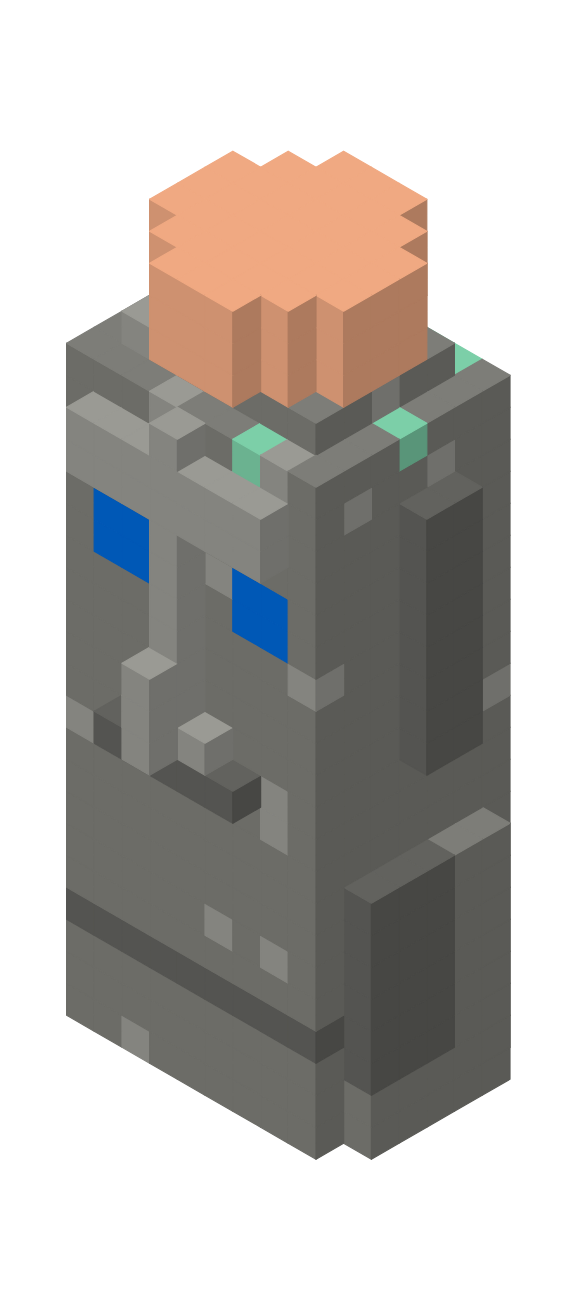
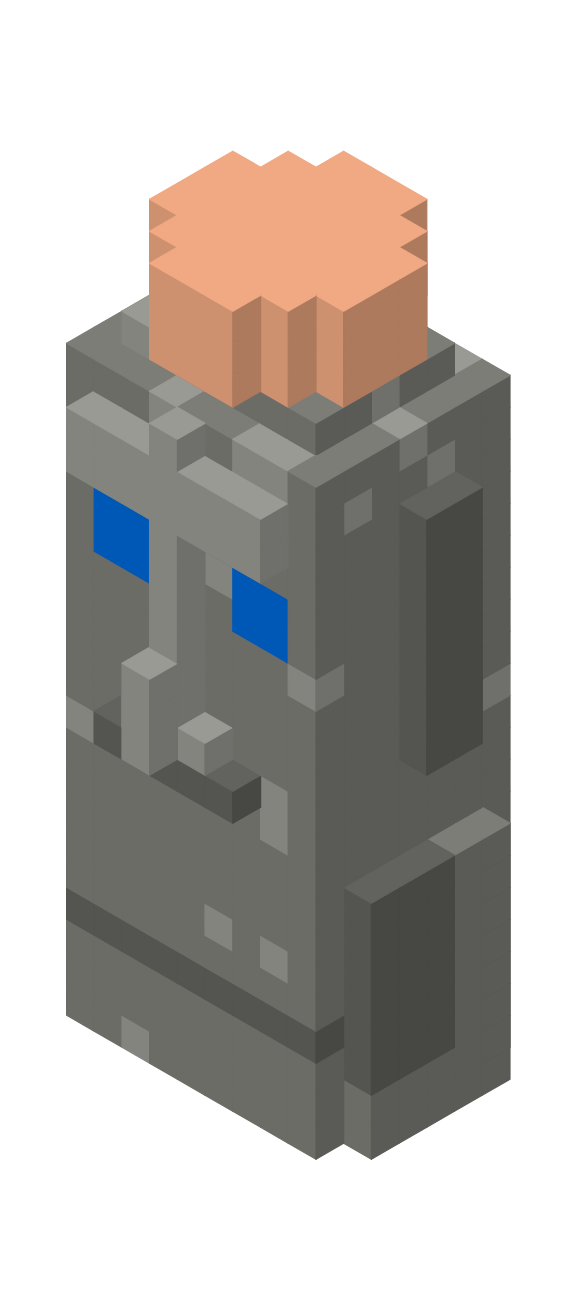
style: drop green from the palette, bands move to blue
The pastel About band, the dark contact band, --px-5, the moai moss
and the OG pixels used mint green, which is not part of the brand
palette. They now use pale blue, navy and lavender; all text pairs
still pass AA.

Claude-Session: https://claude.ai/code/session_014t4Wg7xppYvDZKWdUJ4WtA

Changed region(s): [[0.6562, 0.3053, 0.75, 0.3664], [0.4062, 0.3053, 0.5, 0.3664], [0.7812, 0.2443, 0.8438, 0.3053]]

diff --git a/src/styles/_tokens.scss b/src/styles/_tokens.scss
@@ -17,7 +17,7 @@
   --px-2: #7fb2ec;
   --px-3: #b9d5f5;
   --px-4: #c9b8f5;
-  --px-5: #a8e0c8;
+  --px-5: #dccff8;
   --px-6: #ffc9a8;
   --stone: #a3a39d;
   --stone-dark: #85857f;
@@ -28,9 +28,9 @@
   /* text on the pastel stack orbs, which stay light in both themes */
   --orb-ink: #1d1d1c;
   /* section bands (.band in _base.scss): pastel for About, ink for the contact finale; AA-checked */
-  --band-pastel-bg: #a8e0c8;
+  --band-pastel-bg: #b9d5f5;
   --band-pastel-fg: #1d1d1c;
-  --band-pastel-muted: #30473d;
+  --band-pastel-muted: #2f4560;
   --band-pastel-link: #0b4f96;
   --band-ink-bg: #1d1d1c;
   --band-ink-fg: #f2f2f2;
@@ -53,7 +53,7 @@
   --px-2: #2f86ea;
   --px-3: #6aa9f2;
   --px-4: #9d8cf0;
-  --px-5: #7ccfa8;
+  --px-5: #c2b4f5;
   --px-6: #f0a982;
   --stone: #7d7d78;
   --stone-dark: #62625e;
@@ -61,13 +61,13 @@
   --intro-bg: #e0e0e0;
   --intro-fg: #121212;
   --orb-ink: #121212;
-  --band-pastel-bg: #15302a;
-  --band-pastel-fg: #e8f4ee;
-  --band-pastel-muted: #a7c8ba;
+  --band-pastel-bg: #14243b;
+  --band-pastel-fg: #e8f0fa;
+  --band-pastel-muted: #a9bdd6;
   --band-pastel-link: #9ccaff;
-  --band-ink-bg: #0c2a1f;
-  --band-ink-fg: #eef7f2;
-  --band-ink-muted: #a7c8ba;
+  --band-ink-bg: #0b1f3d;
+  --band-ink-fg: #eef4fc;
+  --band-ink-muted: #a9bdd6;
   --band-ink-link: #9ccaff;
 }
 

diff --git a/e2e/motion.spec.ts b/e2e/motion.spec.ts
@@ -184,7 +184,7 @@ test.describe('bands and finale', () => {
   test('about sits on a pastel band and contact on a dark one', async ({ page }) => {
     await page.goto('/en/');
     const bandColour = (id: string) => page.locator(`#${id}`).evaluate((el) => getComputedStyle(el, '::before').backgroundColor);
-    expect(await bandColour('about')).toBe('rgb(168, 224, 200)');
+    expect(await bandColour('about')).toBe('rgb(185, 213, 245)');
     expect(await bandColour('contact')).toBe('rgb(29, 29, 28)');
   });
 

diff --git a/src/app/motion/effects/intro.ts b/src/app/motion/effects/intro.ts
@@ -2,7 +2,7 @@ import { endIntro } from '../intro-state';
 import type { Effect } from '../motion-host';
 
 // the pixel palette of src/styles/_tokens.scss
-const PIXELS = ['#7fb2ec', '#b9d5f5', '#c9b8f5', '#a8e0c8', '#ffc9a8'];
+const PIXELS = ['#7fb2ec', '#b9d5f5', '#c9b8f5', '#dccff8', '#ffc9a8'];
 // the CSS fallback in site-intro.ts lifts the panel at 3s; past that, GSAP must not replay it
 const FALLBACK_MS = 2600;
 

diff --git a/src/app/voxel/moai-scene.ts b/src/app/voxel/moai-scene.ts
@@ -37,7 +37,7 @@ const CSS_COLORS: Readonly<Record<VoxelColor, string>> = {
   stoneLight: '--stone-light',
   eye: '--accent',
   pukao: '--px-6',
-  moss: '--px-5',
+  moss: '--stone-light',
 };
 
 @Component({

diff --git a/docs/superpowers/specs/2026-10-03-portfolio-v2-design.md b/docs/superpowers/specs/2026-10-03-portfolio-v2-design.md
@@ -83,7 +83,7 @@ Base: la palette del sito attuale (`theme.css`) + pochi accenti pastello usati *
 | `--fg-muted` | `#555555` | `#aaaaaa` |
 | `--accent` (bottoni, pixel) | `#0066d4` | `#0066d4` |
 | `--link` (testo d'accento) | `#005fc5` | `#4d9bf0` |
-| Pixel | `#0066d4`, `#7fb2ec`, `#b9d5f5`, `#c9b8f5`, `#a8e0c8`, `#ffc9a8` | `#0066d4`, `#2f86ea`, `#6aa9f2`, `#9d8cf0`, `#7ccfa8`, `#f0a982` |
+| Pixel | `#0066d4`, `#7fb2ec`, `#b9d5f5`, `#c9b8f5`, `#dccff8`, `#ffc9a8` | `#0066d4`, `#2f86ea`, `#6aa9f2`, `#9d8cf0`, `#c2b4f5`, `#f0a982` |
 
 Contrasti verificati (WCAG AA ≥ 4.5:1): `--link` light 4.8:1, dark 6.5:1; testo bianco su `--accent` 5.4:1; `--fg-muted` light 5.9:1, dark 8.1:1.
 
